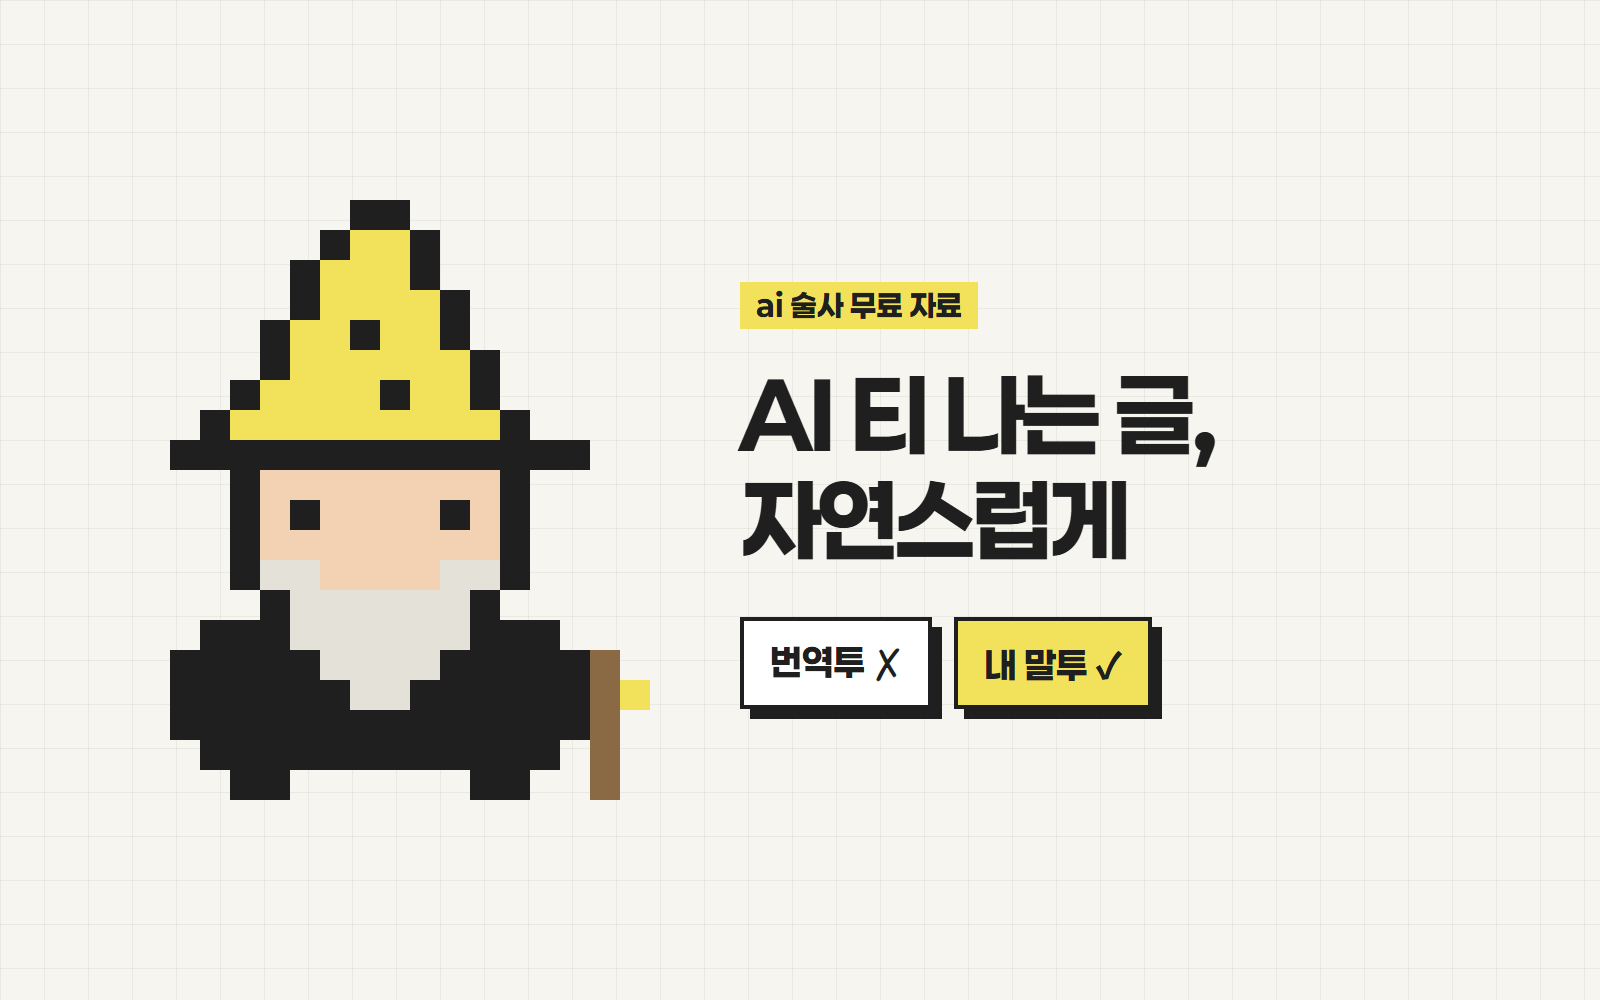
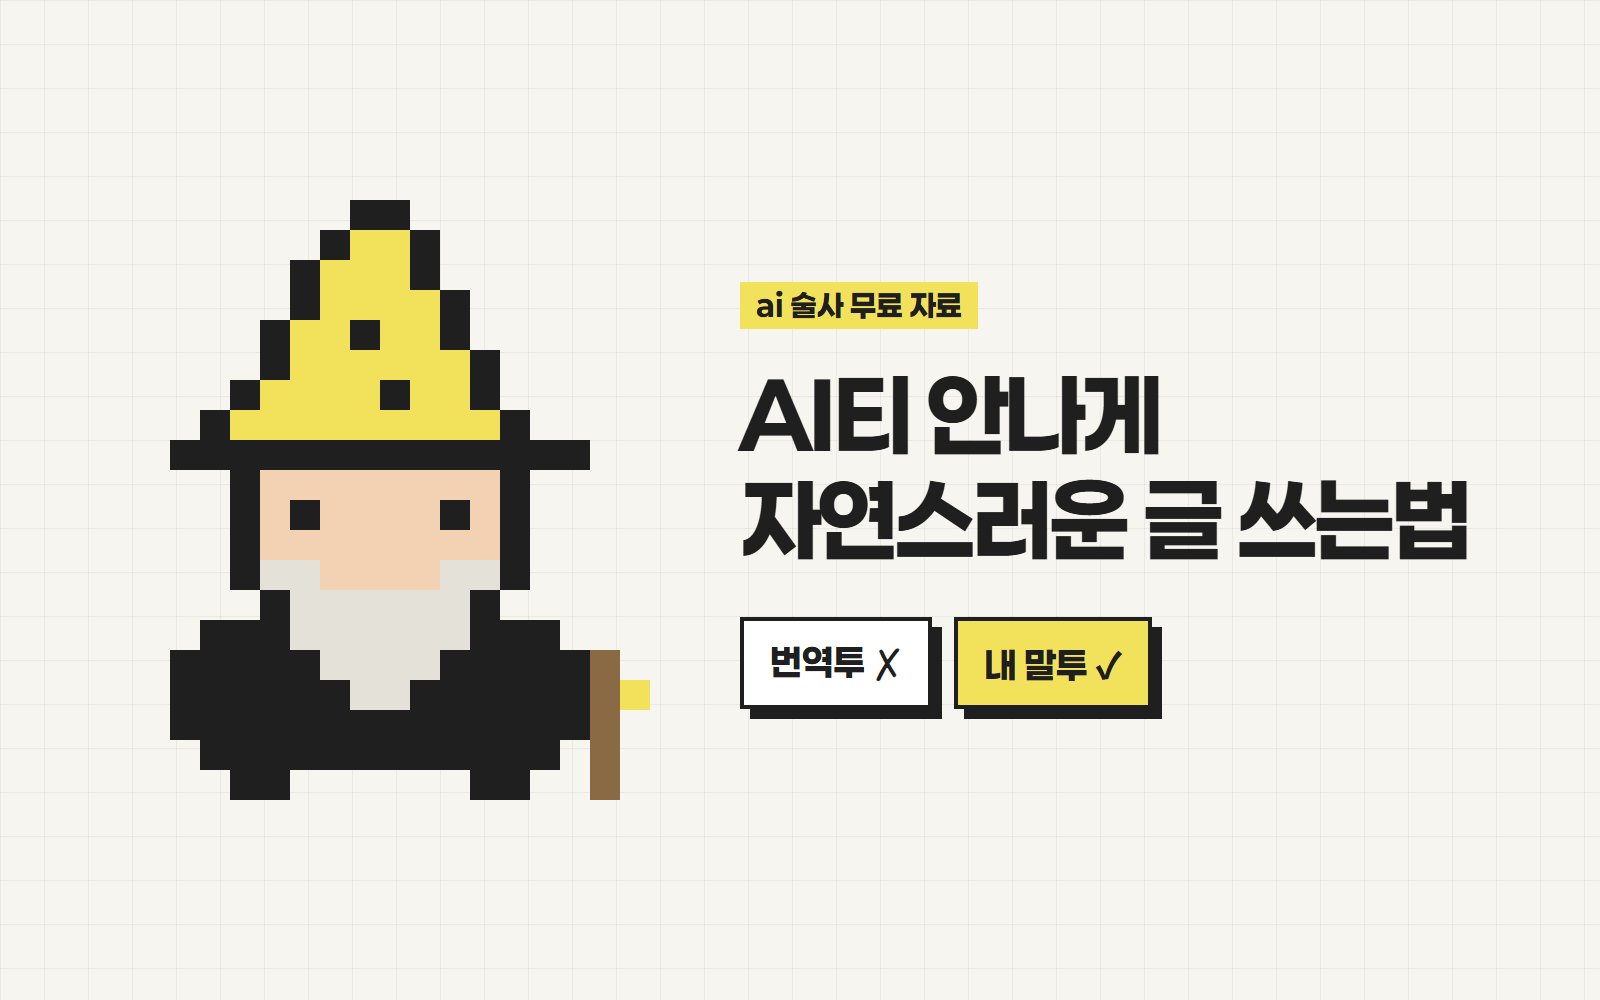
글쓰기 자료: 제목 'AI티 안나게 자연스러운 글 쓰는법', 커버·삽화 교체, 작가용 프롬프트 문구(문체) 수정

Changed region(s): [[0.5, 0.372, 0.9375, 0.558]]

diff --git a/scrolls/writing/index.html b/scrolls/writing/index.html
@@ -3,9 +3,9 @@
 <head>
 <meta charset="utf-8">
 <meta name="viewport" content="width=device-width,initial-scale=1,viewport-fit=cover">
-<title>AI 티 나는 글, 자연스럽게 바꾸는 법</title>
+<title>AI티 안나게 자연스러운 글 쓰는법</title>
 <meta name="description" content="번역투 잡는 스킬 + 내 말투를 학습시키는 복붙 프롬프트">
-<meta property="og:title" content="AI 티 나는 글, 자연스럽게 바꾸는 법">
+<meta property="og:title" content="AI티 안나게 자연스러운 글 쓰는법">
 <meta property="og:description" content="번역투 잡는 스킬 + 내 말투를 학습시키는 복붙 프롬프트">
 <meta property="og:url" content="https://joony1478-cloud.github.io/ai.magician/scrolls/writing/">
 <meta property="og:image" content="https://joony1478-cloud.github.io/ai.magician/scrolls/writing/cover.png">
@@ -24,6 +24,7 @@ body{font-family:Paperlogy,-apple-system,"Apple SD Gothic Neo","Malgun Gothic",s
 :focus-visible{outline:2px solid var(--ink);outline-offset:2px}
 a{color:var(--ink);text-underline-offset:3px}
 main{max-width:520px;margin:0 auto;padding:16px 16px calc(56px + env(safe-area-inset-bottom))}
+.art{display:block;width:100%;height:auto;margin:18px 0 6px;border:1px solid var(--ink)}
 .cover{display:block;width:100%;height:auto;aspect-ratio:16/10;border:1px solid var(--ink)}
 .hi{margin-top:28px;font-size:16px;color:var(--sub)}
 h1{margin-top:6px;font-weight:800;font-size:clamp(28px,8vw,36px);line-height:1.3;letter-spacing:-.03em}
@@ -93,11 +94,12 @@ table.num td:last-child{text-align:right;font-weight:800;white-space:nowrap}
 </head>
 <body>
 <main>
-<img class="cover" src="cover.png" alt="픽셀 마법사와 AI 티 나는 글, 자연스럽게">
+<img class="cover" src="cover.png" alt="픽셀 마법사와 AI티 안나게 자연스러운 글 쓰는법">
 
 <p class="hi">안녕하세요 ai 술사 성준입니다.</p>
-<h1>AI 티 나는 글,<br><em>자연스럽게 바꾸는 법</em></h1>
+<h1>AI티 안나게<br><em>자연스러운 글 쓰는법</em></h1>
 <p class="lead">"자연스럽게 써줘", "사람이 쓴 것처럼 써줘"<br>라고 해도 똑같이 어색하지 않으셨나요?</p>
+<img class="art" src="art.jpg" alt="의자에 기대 쉬는 사람과 모니터 위에서 마법으로 글을 뽑아내는 픽셀 마법사 캐릭터">
 <h2>이유는 두 가지예요</h2>
 <ol class="prep"><li><span class="n">1</span><span>한국어에 영어 번역투가 남아서<small>단어는 한국어인데 문장 구조가 영어를 옮긴 것 같아요.</small></span></li>
 <li><span class="n">2</span><span>AI가 내 말투를 본 적이 없어서<small>"자연스럽게"라고 해도 AI가 받는 건 사실상 주제뿐이에요.</small></span></li></ol>
@@ -140,16 +142,16 @@ table.num td:last-child{text-align:right;font-weight:800;white-space:nowrap}
 이 프로젝트에 올려둔 글은 내가 닮고 싶은 [작가/크리에이터 이름]의 글이야.
 이 글의 문체를 분석해서 그 느낌으로 써줘. 문장을 그대로 가져오지는 마.
 
-[1단계: 내 말투 분석]
+[1단계: 문체 분석]
 처음 한 번만, 올려둔 글을 읽고 아래 항목을 분석해서
-&quot;내 말투 규칙표&quot;로 정리해줘.
+&quot;문체 규칙표&quot;로 정리해줘.
 1. 문장 길이 (짧게 끊는지, 길게 이어 쓰는지)
 2. 문장 끝맺음 (~해요 / ~합니다 / ~거든요 / 반말 비율)
 3. 자주 쓰는 표현과 말버릇
 4. 자주 쓰는 접속사와 문장 시작 단어, 쓰지 않는 것
 5. 줄바꿈과 문단 나누기 방식
 6. 이모지, 물음표, 느낌표, ㅋㅋ 같은 기호 사용 습관
-7. 내가 쓰지 않는 표현 (AI 같은 표현, 번역투 등)
+7. 이 작가가 쓰지 않는 표현 (AI 같은 표현, 번역투 등)
 분석 결과를 보여주고, 내가 &quot;맞아&quot;라고 하면
 그 규칙을 앞으로의 기준으로 삼아.
 
@@ -163,7 +165,7 @@ table.num td:last-child{text-align:right;font-weight:800;white-space:nowrap}
 쓴 글을 보여주기 전에 아래를 확인하고,
 하나라도 어기면 고쳐서 다시 확인해.
 □ 규칙표의 문장 길이와 끝맺음에 맞나
-□ 내가 쓰지 않는 표현이 들어가 있나
+□ 이 작가가 쓰지 않는 표현이 들어가 있나
 □ 번역투(~를 통해, ~에 대한, ~할 수 있습니다,
   ~것으로 보입니다)가 있나
 □ 같은 문장 구조가 3번 이상 반복되나

diff --git a/_build/build_scrolls.py b/_build/build_scrolls.py
@@ -89,6 +89,7 @@ body{font-family:Paperlogy,-apple-system,"Apple SD Gothic Neo","Malgun Gothic",s
 a{color:var(--ink);text-underline-offset:3px}
 main{max-width:520px;margin:0 auto;padding:16px 16px calc(56px + env(safe-area-inset-bottom))}
 .cover{display:block;width:100%;height:auto;aspect-ratio:16/10;border:1px solid var(--ink)}
+.art{display:block;width:100%;height:auto;margin:18px 0 6px;border:1px solid var(--ink)}
 .hi{margin-top:28px;font-size:16px;color:var(--sub)}
 h1{margin-top:6px;font-weight:800;font-size:clamp(28px,8vw,36px);line-height:1.3;letter-spacing:-.03em}
 h1 em{font-style:normal;background:linear-gradient(transparent 58%,var(--stamp) 58%)}
@@ -283,11 +284,16 @@ PROMPT_BODY = """[1단계: 내 말투 분석]
 □ 같은 문장 구조가 3번 이상 반복되나
 □ 지어낸 사실이 있나
 최종 글만 출력해줘. 검수 과정은 보여주지 마."""
+# 작가 버전: "내 말투" → "문체" (2026-10-21 검토 수정)
+PROMPT_BODY_AUTHOR = (PROMPT_BODY.replace("[1단계: 내 말투 분석]", "[1단계: 문체 분석]").replace('"내 말투 규칙표"', '"문체 규칙표"')
+                      .replace("7. 내가 쓰지 않는 표현", "7. 이 작가가 쓰지 않는 표현").replace("□ 내가 쓰지 않는 표현이", "□ 이 작가가 쓰지 않는 표현이"))
+
 PAGES.append(dict(
-    slug="writing", title="AI 티 나는 글, 자연스럽게 바꾸는 법", desc="번역투 잡는 스킬 + 내 말투를 학습시키는 복붙 프롬프트",
-    cover=("AI 티 나는 글,", "자연스럽게", [("번역투 ✗", "#fff"), ("내 말투 ✓", "#f2e15b")]),
-    h1=("AI 티 나는 글,", "자연스럽게 바꾸는 법"),
+    slug="writing", title="AI티 안나게 자연스러운 글 쓰는법", desc="번역투 잡는 스킬 + 내 말투를 학습시키는 복붙 프롬프트",
+    cover=("AI티 안나게", "자연스러운 글 쓰는법", [("번역투 ✗", "#fff"), ("내 말투 ✓", "#f2e15b")]),
+    h1=("AI티 안나게", "자연스러운 글 쓰는법"),
     body=f"""<p class="lead">"자연스럽게 써줘", "사람이 쓴 것처럼 써줘"<br>라고 해도 똑같이 어색하지 않으셨나요?</p>
+<img class="art" src="art.jpg" alt="의자에 기대 쉬는 사람과 모니터 위에서 마법으로 글을 뽑아내는 픽셀 마법사 캐릭터">
 <h2>이유는 두 가지예요</h2>
 <ol class="prep"><li><span class="n">1</span><span>한국어에 영어 번역투가 남아서<small>단어는 한국어인데 문장 구조가 영어를 옮긴 것 같아요.</small></span></li>
 <li><span class="n">2</span><span>AI가 내 말투를 본 적이 없어서<small>"자연스럽게"라고 해도 AI가 받는 건 사실상 주제뿐이에요.</small></span></li></ol>
@@ -304,7 +310,7 @@ PAGES.append(dict(
 {step("STEP 3", "프로젝트에 넣고 말투 학습", "한 번만 세팅하면 계속 써요.",
   do(["클로드 또는 ChatGPT에서 프로젝트를 새로 만들어요.", "STEP 2 파일들을 프로젝트 파일(지식)에 추가해요.", "아래 프롬프트를 프로젝트 지침(Instructions)에 붙여넣어요."])
   + lbl("내 글을 넣었다면") + block(PROMPT_HEAD_MINE + "\n\n" + PROMPT_BODY)
-  + lbl("작가·크리에이터 글을 넣었다면 (이름만 바꿔서)") + block(PROMPT_HEAD_AUTHOR + "\n\n" + PROMPT_BODY)
+  + lbl("작가·크리에이터 글을 넣었다면 (이름만 바꿔서)") + block(PROMPT_HEAD_AUTHOR + "\n\n" + PROMPT_BODY_AUTHOR)
   + tip("화면 이름과 위치는 업데이트로 바뀔 수 있어요. 안 보이면 ‘프로젝트 → 파일 / 지침’ 메뉴를 찾아주세요."))}
 {step("STEP 4", "결과 확인하고 고치기", "아무 주제나 하나 시켜보세요.",
   block("[주제]에 대한 글을 써줘. 분량은 [ ]자 정도로.") + lbl("마음에 안 들면 규칙표를 고치라고 해요")
